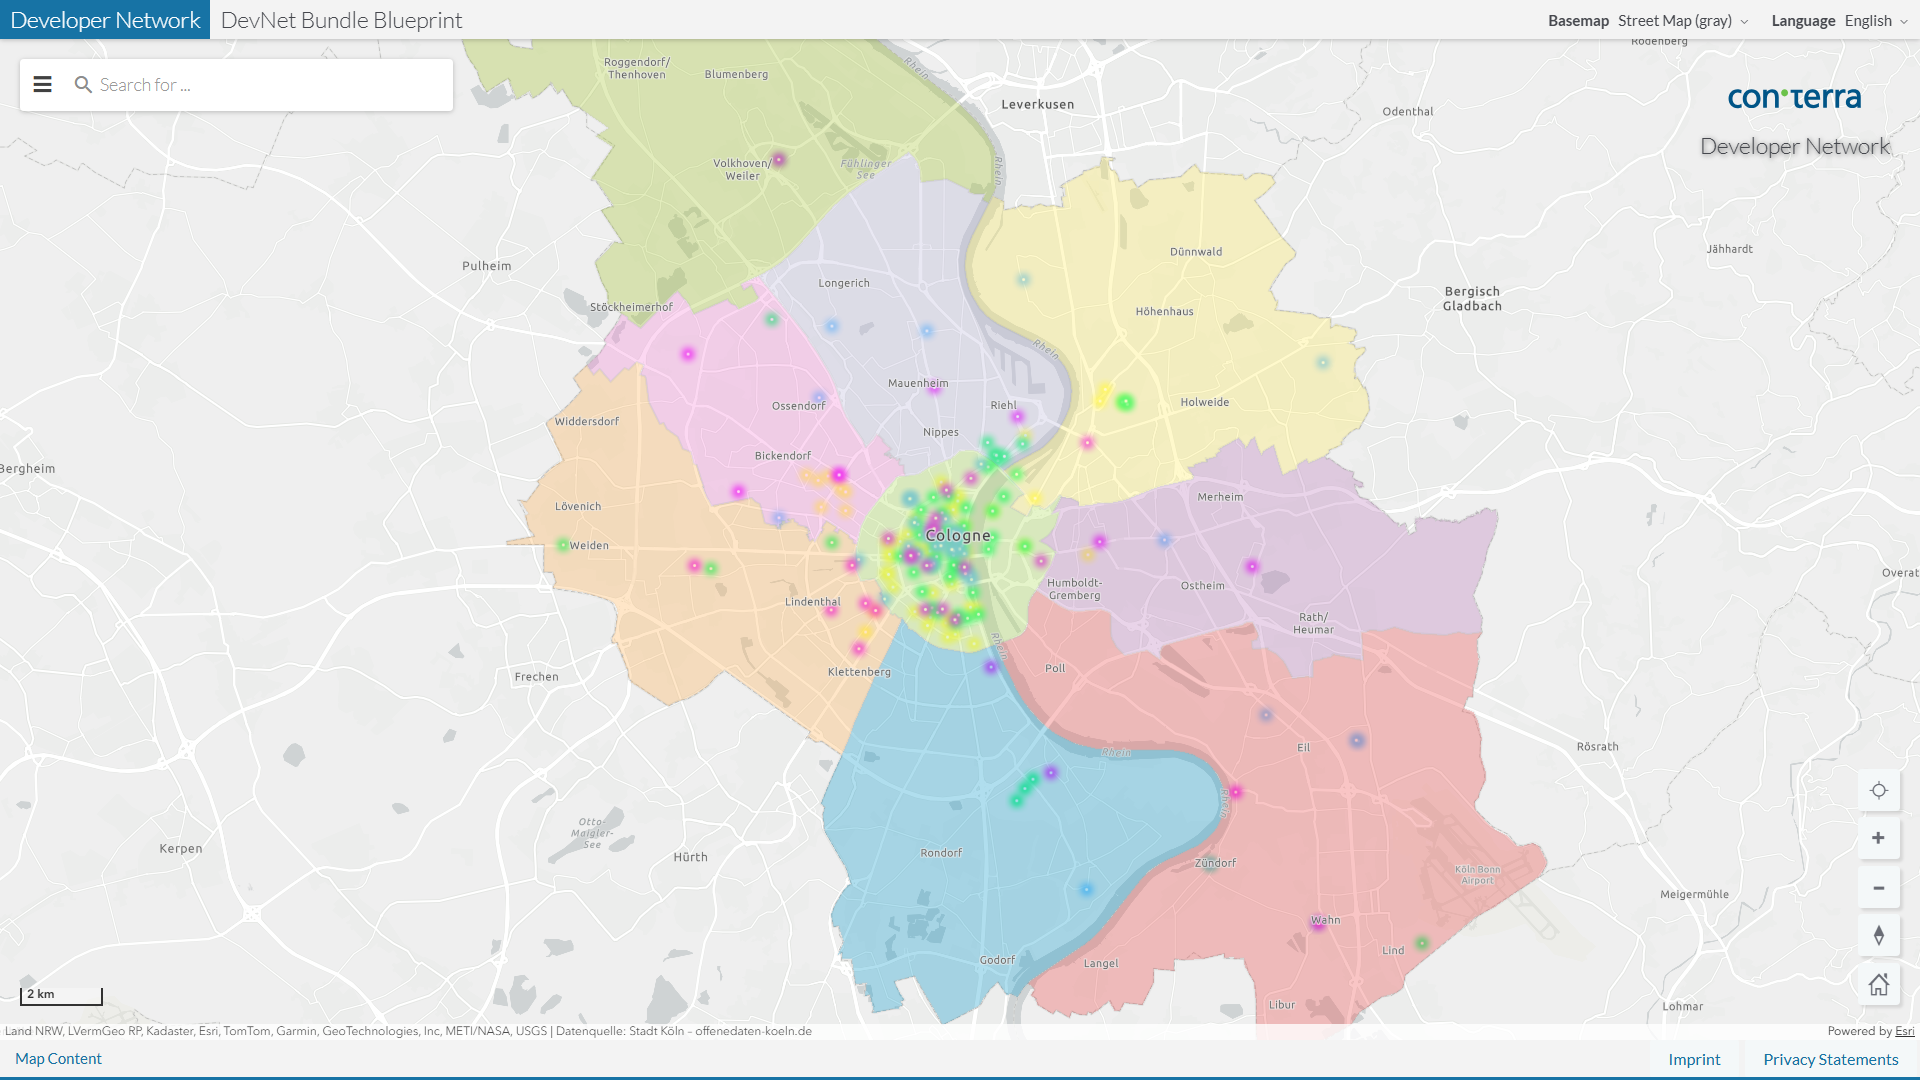
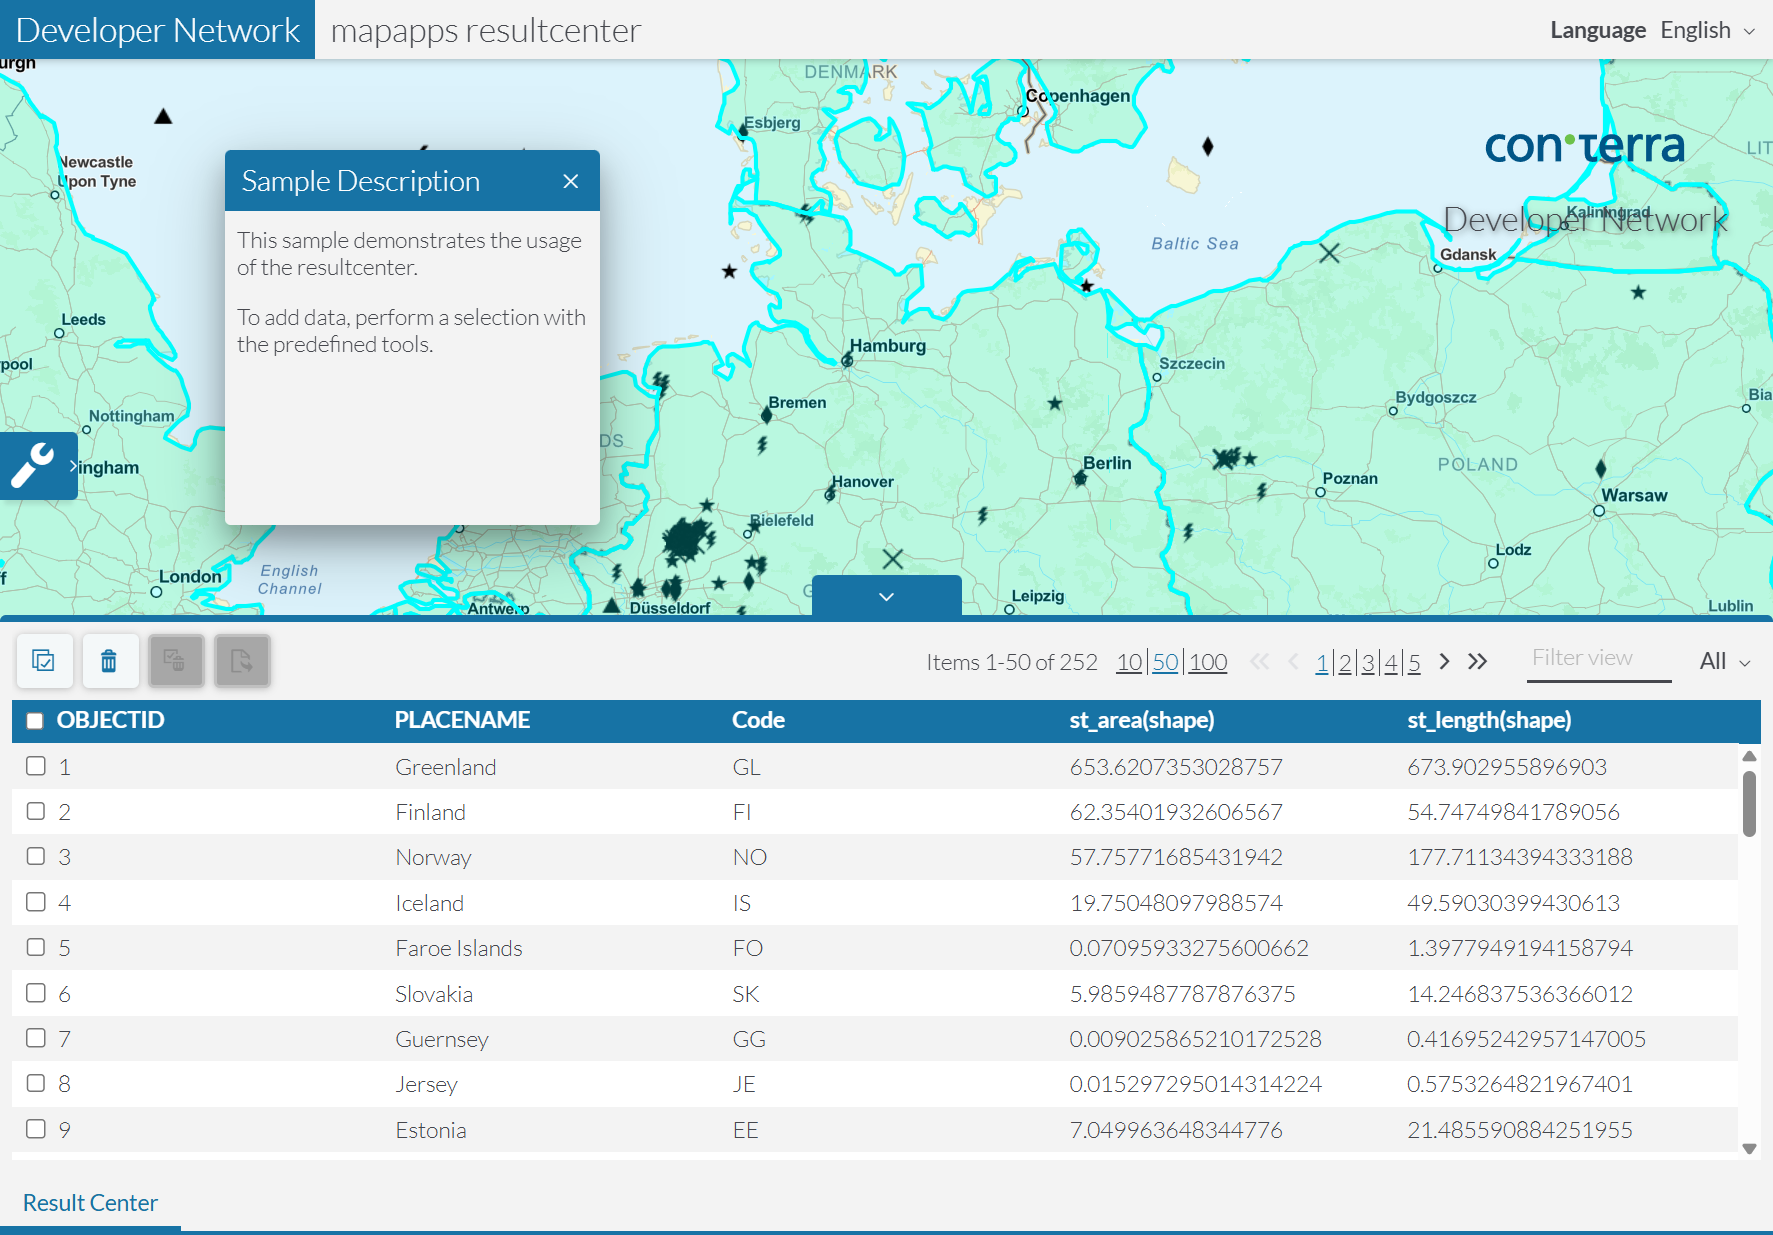
MAPAPPS-7418 update readme

diff --git a/README.md b/README.md
@@ -1,19 +1,24 @@
-# mapapps-devnet-blueprint
+# mapapps-resultcenter
 
-**This project is not intended for use by non-con terra users.** It is designed for the creation of bundles and their releases in GitHub and can access con terra internal infrastructures for this purpose. To develop your own map.apps bundles, use the [mapapps-4-developers project](https://github.com/conterra/mapapps-4-developers).
+The mapapps resultcenter and selection-resultcenter provide functionality to .
 
-This project is a starting point for programming custom map.apps bundles and themes. It contains examples for common tasks such as building widgets with Vue.js or creating your own custom themes.
-You may use this project as a blueprint for starting your own map.apps project.
+![Screenshot App](https://github.com/conterra/mapapps-printing-enhanced/blob/main/screenshot.JPG)
 
-Since both Typescript and Javascript can be used to implement bundles, this project contains two bundles with the same functionality, `sample_camera` implemented in Typescript and `sample_camera_js` implemented in Javascript.
-Initially only the `sample_camera` bundle is included in the `Demo` sample app.
+## Build Status
+[![devnet-bundle-snapshot](https://github.com/conterra/mapapps-resultcenter/actions/workflows/devnet-bundle-snapshot.yml/badge.svg)](https://github.com/conterra/mapapps-resultcenter/actions/workflows/devnet-bundle-snapshot.yml)
 
-For detailed documentation on how to use map.apps for Developers to extend map.apps, see the [map.apps Developer's Guide](https://docs.conterra.de/en/mapapps/latest/developersguide/getting-started/).
+## Sample App
+[T.B.D]
 
-## Software Requirements
+## Installation Guide
+**Requirements:**
+- map.apps 4.20.0 or later
 
-- Java >= 17
-- Maven >= 3.9.0
+Simply add the bundles "dn_resultcenter" and optional the bundle dn_selection-resultcenter to your app.
+
+[dn_resultcenter Documentation](https://github.com/conterra/mapapps-resultcenter/tree/master/src/main/js/bundles/dn_resultcenter)
+
+[dn_resultcenter Documentation](https://github.com/conterra/mapapps-resultcenter/tree/master/src/main/js/bundles/dn_selection-resultcenter)
 
 ## Quick start
 
@@ -31,9 +36,3 @@ $ mvn compile -Denv=dev -Pinclude-mapapps-deps
 # run unit tests
 $ mvn test -P run-js-tests,include-mapapps-deps
 ```
-
-### Run Browser Tests
-http://localhost:9090/resources/jsregistry/root/@conterra/mapapps-mocha-runner/latest/mocha.html?boot=/js/tests/test-init.js&timeout=5000&test=tests-all/tests
-
-
-For more details refer to the [Developer's Guide](https://docs.conterra.de/en/mapapps/latest/developersguide/getting-started/).
